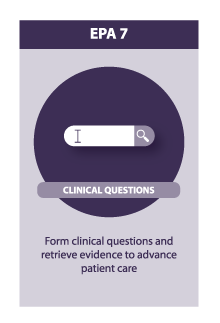
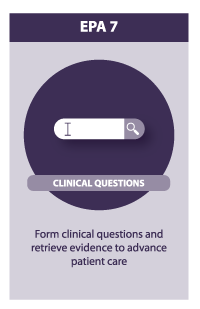
Realigned all the badges. Displayed the badges small when it is not awarded.  Recropped the badges.

Changed region(s): [[0.03, 0.0291, 0.96, 0.9903], [0.15, 0.7282, 0.84, 0.8738], [0.27, 0.3786, 0.75, 0.466]]

diff --git a/app/helpers/epa_masters_helper.rb b/app/helpers/epa_masters_helper.rb
@@ -32,12 +32,12 @@ module EpaMastersHelper
       selected_recs = EpaMaster.where(user_id: selected_user_id).order(:id)
     end
     selected_recs.each do |rec|
+      badged = {rec.epa => "epa/#{rec.epa}.png"}
       if (rec.status1.to_s + rec.status2.to_s + rec.status3.to_s).include? "Yes"
-        badged = {rec.epa => "epa/#{rec.epa}.png"}
         review_date = get_review_date(rec)
       else
         review_date = {rec.epa => ""}
-        badged = {rec.epa => "epa/not_badge_#{rec.epa}.png"}
+        #badged = {rec.epa => "epa/not_badge_#{rec.epa}.png"}
       end
       review_date_array.push review_date
       epa_badges.push badged
